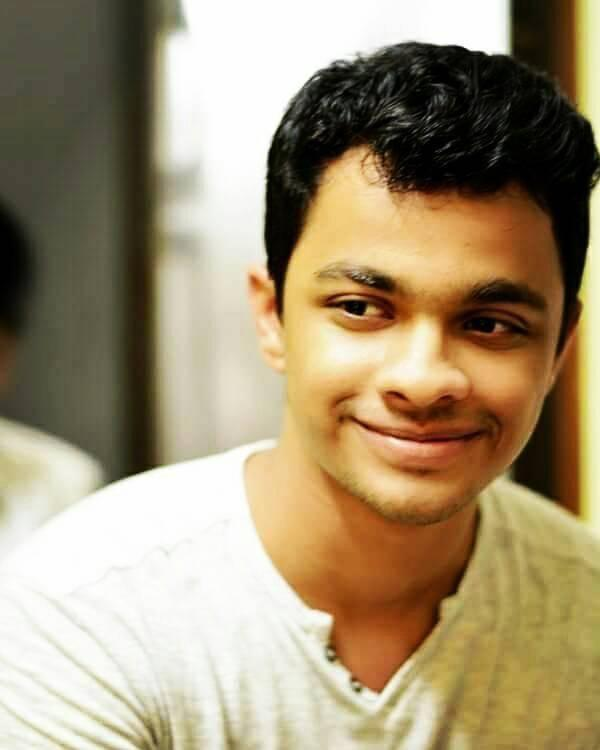
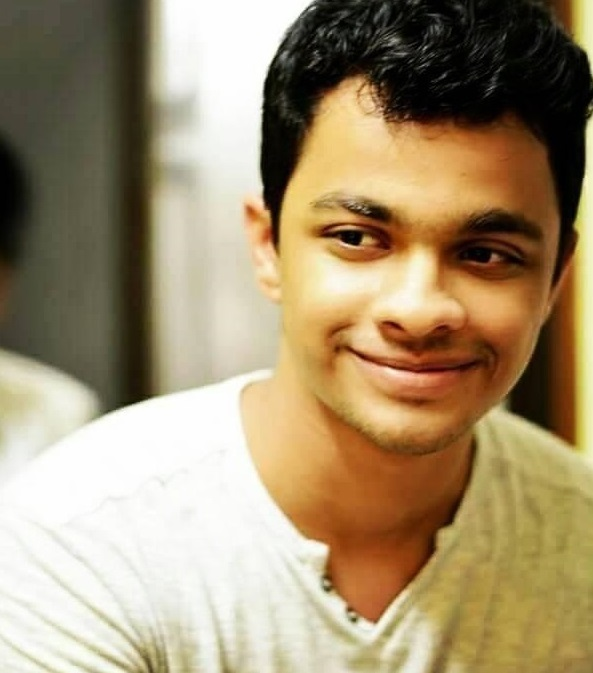
amogh original pic added

diff --git a/src/components/contributer.js b/src/components/contributer.js
@@ -3,7 +3,7 @@ import './css/contributer.css';
 import divyansh from './img/divyansh.jpeg';
 import vikas from './img/vikas.jpeg';
 import manish from './img/manish.jpeg';
-import amogh from './img/user1.png';
+import amogh from './img/amogh.jpeg';
 const Contributer = () => {
     return (
         <div className="contributer-list">
